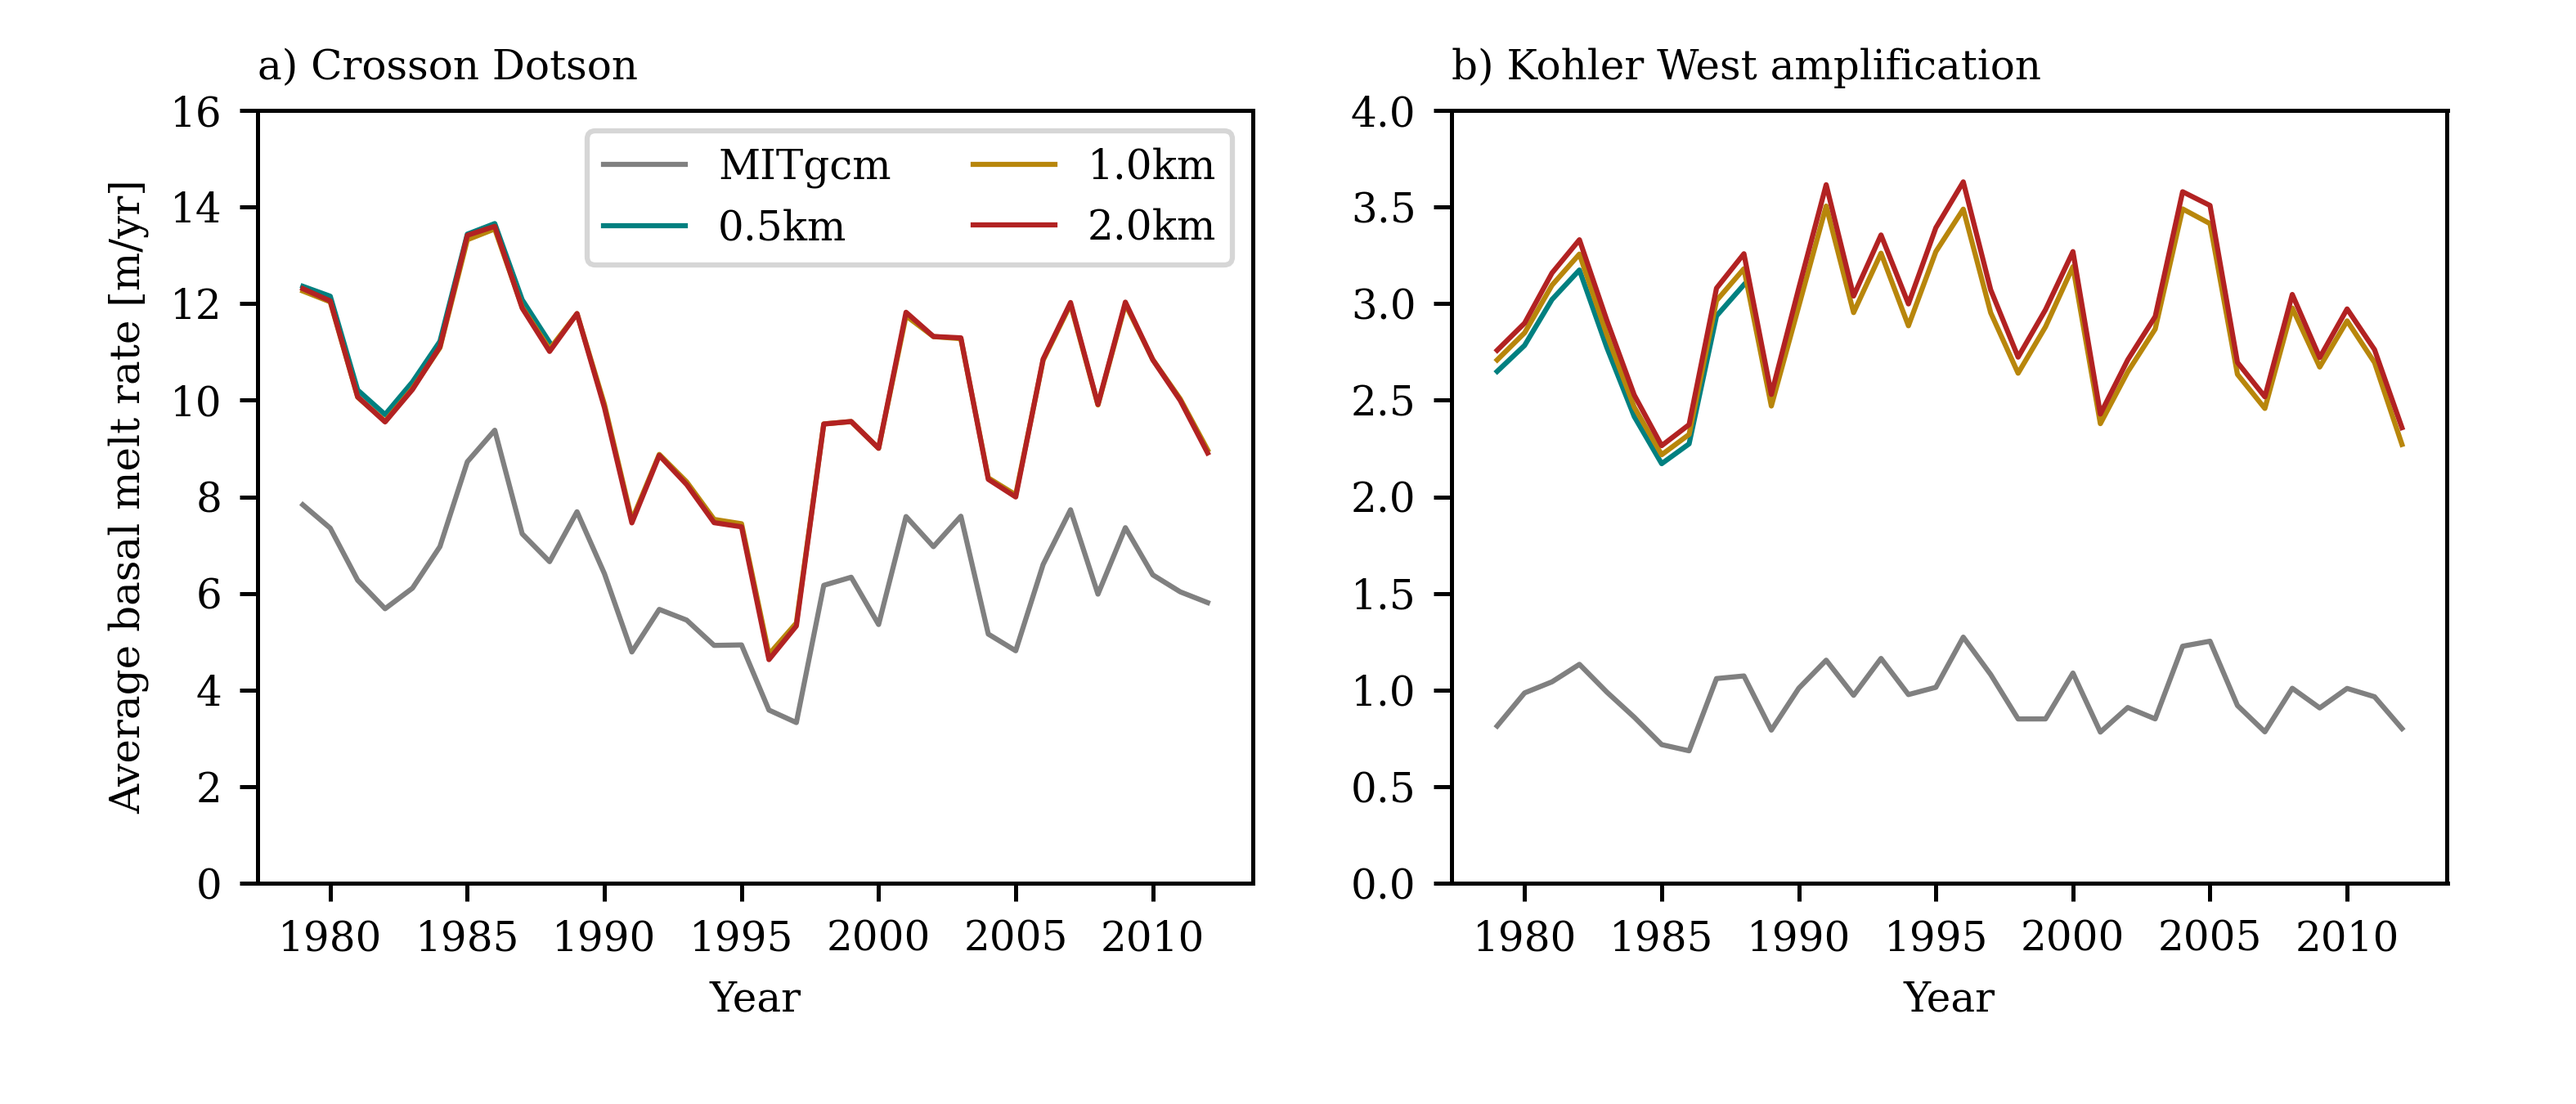
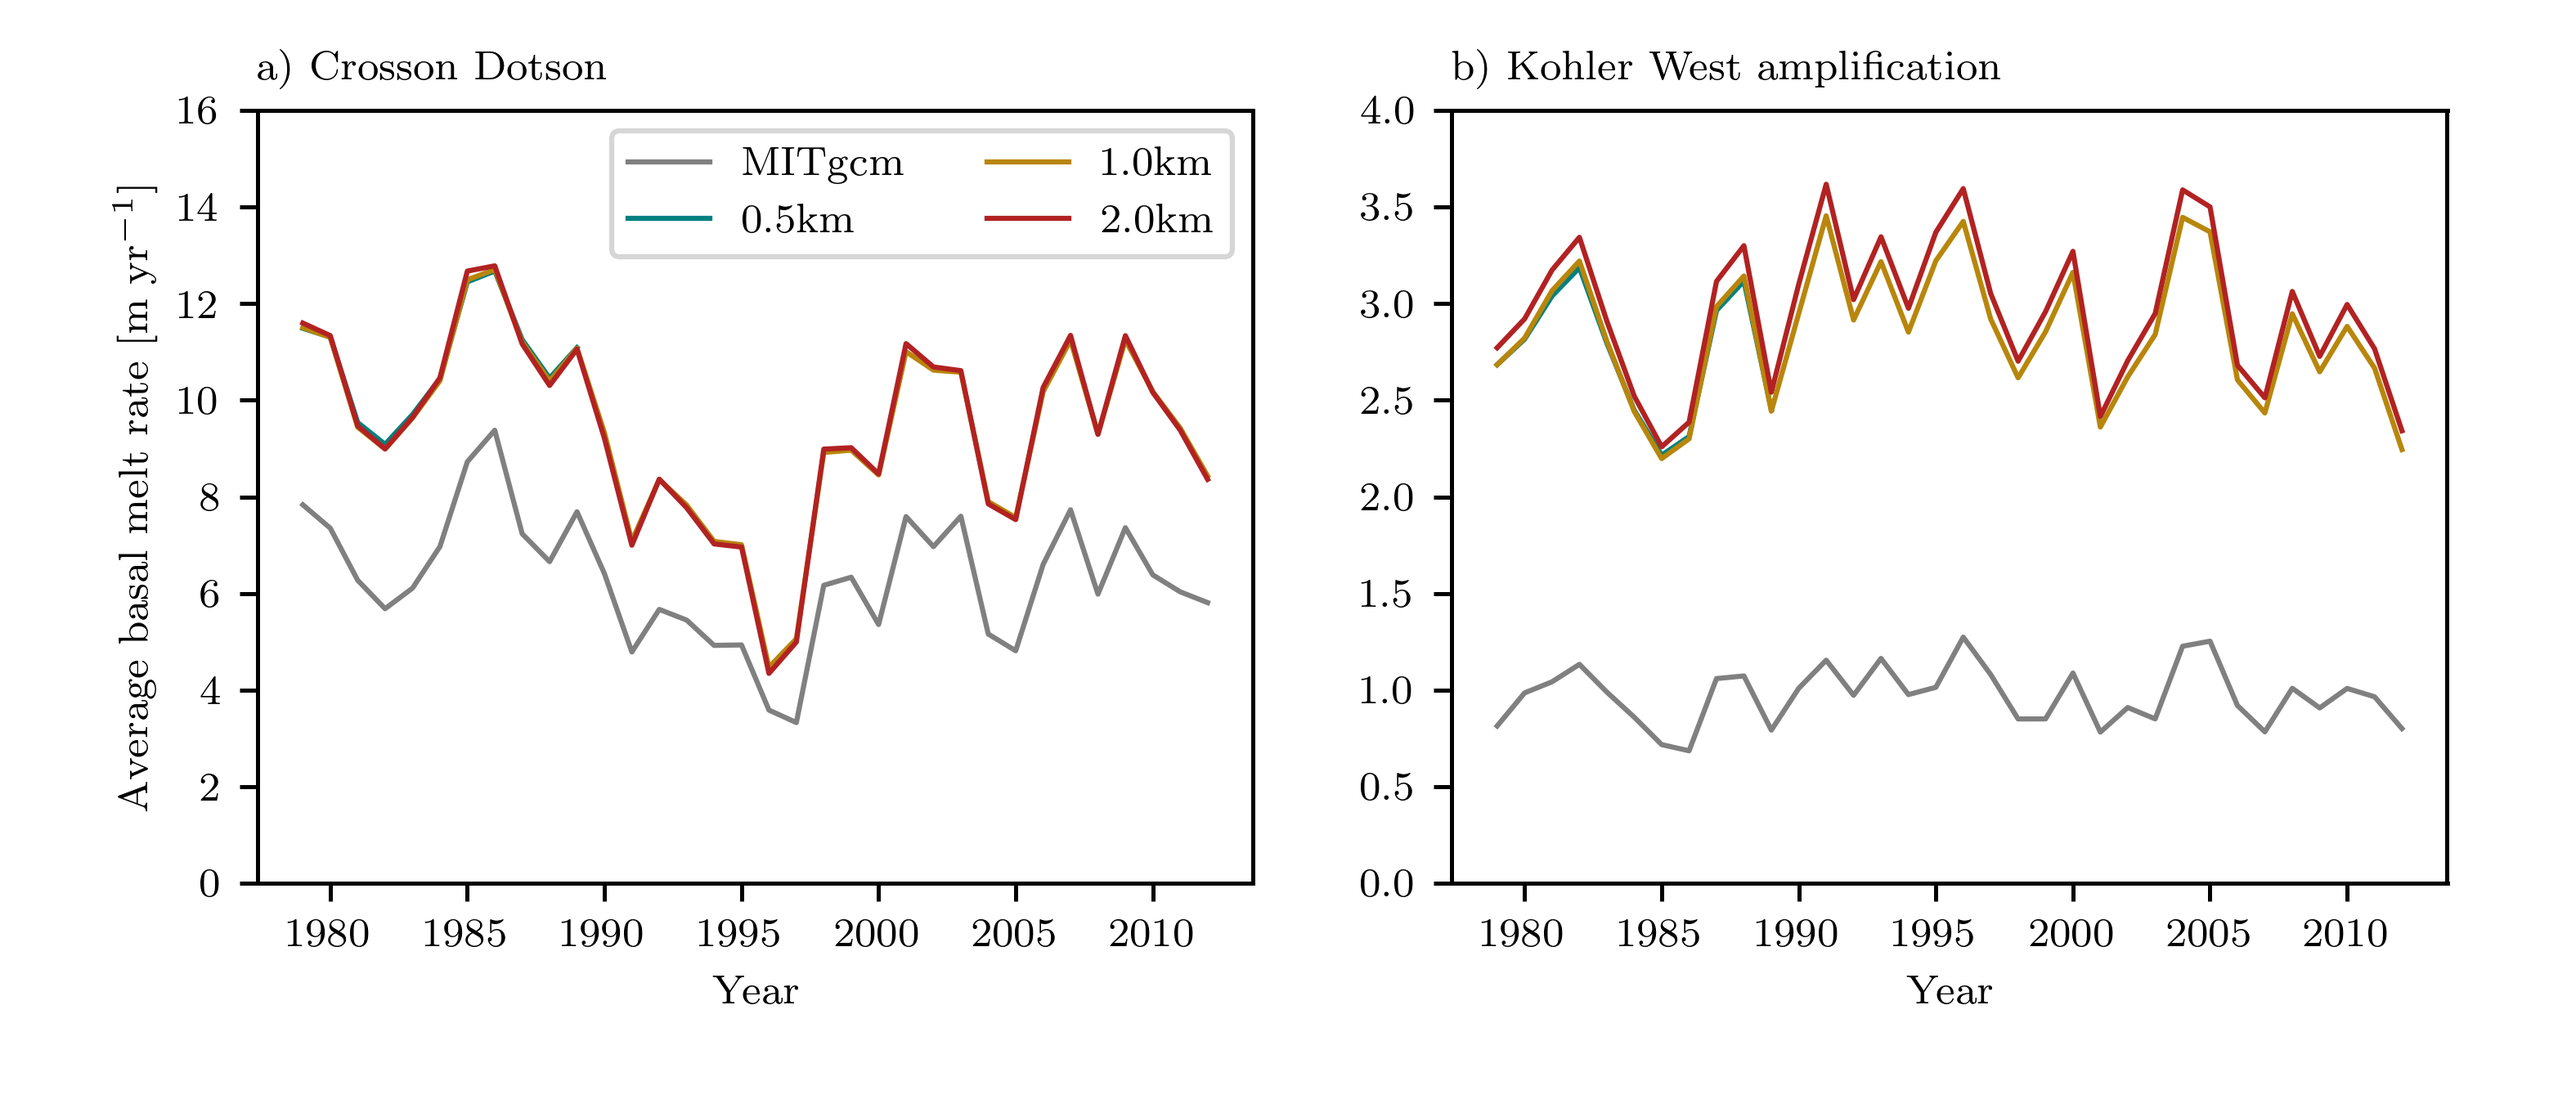
include FRIS, update timeseries

diff --git a/src/preprocess.py b/src/preprocess.py
@@ -24,6 +24,7 @@ def create_mask(object):
     object.ocnxp1      = np.roll(object.ocn, 1,axis=1)
     
     #Mask ice shelf points sticking out as ocean
+    print('removing points sticking out')
     print(np.sum(object.tmask*(object.ocnym1*object.ocnyp1+object.ocnxm1*object.ocnxp1)>0))
     while np.sum(object.tmask*(object.ocnym1*object.ocnyp1+object.ocnxm1*object.ocnxp1)>0) > 0:
         object.ocn = np.where(object.tmask*(object.ocnym1*object.ocnyp1+object.ocnxm1*object.ocnxp1)>0,1,object.ocn)
@@ -36,11 +37,36 @@ def create_mask(object):
         object.ocnxp1      = np.roll(object.ocn, 1,axis=1)
         print(np.sum(object.tmask*(object.ocnym1*object.ocnyp1+object.ocnxm1*object.ocnxp1)>0))
     
-    #Rolled masks
+    #Rolled tmasks
     object.tmaskym1    = np.roll(object.tmask,-1,axis=0)
     object.tmaskyp1    = np.roll(object.tmask, 1,axis=0)
     object.tmaskxm1    = np.roll(object.tmask,-1,axis=1)
     object.tmaskxp1    = np.roll(object.tmask, 1,axis=1)    
+    
+    #Mask isolated ice shelf points as ocean
+    print('removing isolated points')
+    print(np.sum(np.logical_and(object.tmask==1,object.tmaskym1+object.tmaskyp1+object.tmaskxm1+object.tmaskxp1==0)))
+    while np.sum(np.logical_and(object.tmask==1,object.tmaskym1+object.tmaskyp1+object.tmaskxm1+object.tmaskxp1==0)):
+        object.ocn = np.where(np.logical_and(object.tmask==1,object.tmaskym1+object.tmaskyp1+object.tmaskxm1+object.tmaskxp1==0),1,object.ocn)
+        object.tmask = np.where(object.ocn==1,0,object.tmask)
+        object.mask  = np.where(object.ocn==1,0,object.mask)
+        #Redefine rolled masks
+        object.tmaskym1    = np.roll(object.tmask,-1,axis=0)
+        object.tmaskyp1    = np.roll(object.tmask, 1,axis=0)
+        object.tmaskxm1    = np.roll(object.tmask,-1,axis=1)
+        object.tmaskxp1    = np.roll(object.tmask, 1,axis=1)   
+        print(np.sum(np.logical_and(object.tmask==1,object.tmaskym1+object.tmaskyp1+object.tmaskxm1+object.tmaskxp1==0)))
+    
+    #Update rolled masks
+    object.ocnym1      = np.roll(object.ocn,-1,axis=0)
+    object.ocnyp1      = np.roll(object.ocn, 1,axis=0)
+    object.ocnxm1      = np.roll(object.ocn,-1,axis=1)
+    object.ocnxp1      = np.roll(object.ocn, 1,axis=1)    
+    object.tmaskym1    = np.roll(object.tmask,-1,axis=0)
+    object.tmaskyp1    = np.roll(object.tmask, 1,axis=0)
+    object.tmaskxm1    = np.roll(object.tmask,-1,axis=1)
+    object.tmaskxp1    = np.roll(object.tmask, 1,axis=1)      
+    
     object.tmaskxm1ym1 = np.roll(np.roll(object.tmask,-1,axis=0),-1,axis=1)
     object.tmaskxm1yp1 = np.roll(np.roll(object.tmask, 1,axis=0),-1,axis=1)
     object.tmaskxp1ym1 = np.roll(np.roll(object.tmask,-1,axis=0), 1,axis=1)    
@@ -102,6 +128,9 @@ def initialize_vars(object):
     
     #Include ice shelf front gradient
     object.zb = xr.where(object.isf,0,object.zb)
+    
+    #Remove positive values
+    #object.zb = xr.where(np.logical_and(object.tmask==1,object.zb>-50),-50,object.zb)
     
     #Draft dz/dx and dz/dy on t-grid
     object.dzdx = np.gradient(object.zb,object.dx,axis=1)

diff --git a/src/geometry.py b/src/geometry.py
@@ -26,7 +26,9 @@ class Geometry(ModelConstants):
         elif name=='Amery':
             x0,x1,y0,y1 = 10010,11160,4975,5450
         elif name=='FRIS':
-            x0,x1,y0,y1 = 3600,5630,4560,6420    
+            x0,x1,y0,y1 = 3600,5630,4560,6420
+        elif name=='Ross':
+            x0,x1,y0,y1 = 5470,7500,7500,9400
     
         self.ds = xr.open_dataset('../../../data/BedMachineAntarctica_2020-07-15_v02.nc')
         self.ds = self.ds.isel(x=slice(x0,x1),y=slice(y0,y1))
